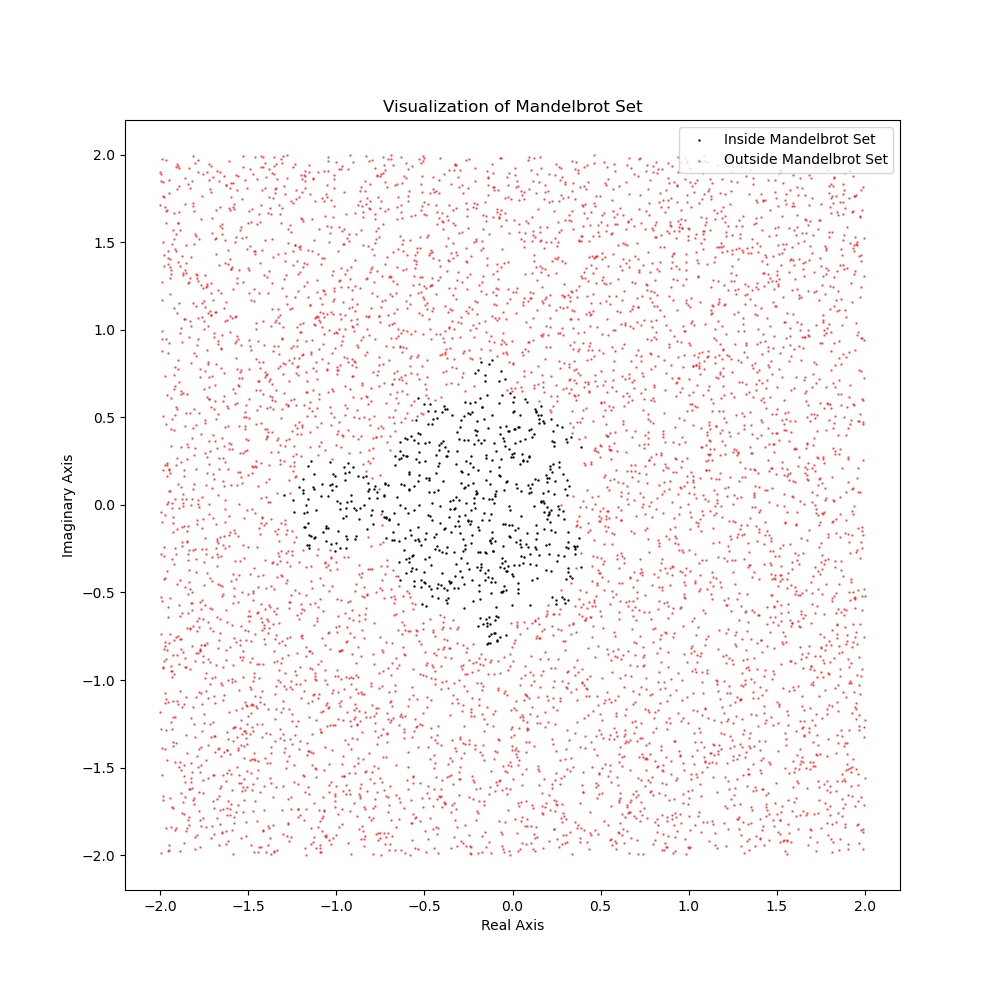
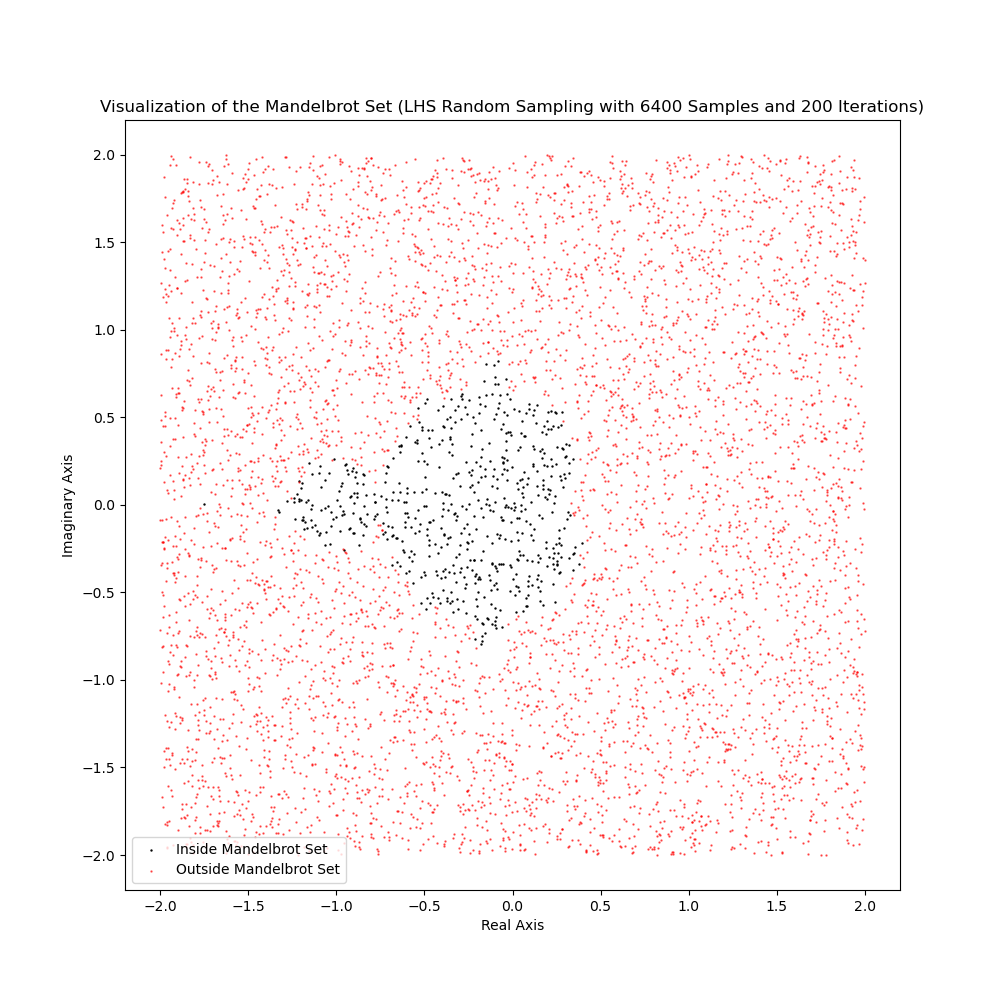
Add specified title for each plotting

Changed region(s): [[0.093, 0.093, 0.93, 0.899]]

diff --git a/src/main.py b/src/main.py
@@ -1,21 +1,37 @@
+import threading
+import time
 import multiprocessing as mp
 from joblib import Parallel, delayed
 import itertools
 import mandelbrot_analysis
+
+def show_wait_message():
+    animation = ["", ".", "..", "..."]
+    idx = 0
+    while not stop_event.is_set():
+        print(" " * 50, end="\r")
+        print(f"Hang in there, it's almost done{animation[idx % len(animation)]}", end="\r")
+        idx += 1
+        time.sleep(0.5)
+
+stop_event = threading.Event()
+wait_thread = threading.Thread(target=show_wait_message)
+wait_thread.start()
 
 # initialize the MandelbrotAnalysis platform
 mandelbrotAnalysisPlatform = mandelbrot_analysis.MandelbrotAnalysis(real_range=(-2, 2), imag_range=(-2, 2))
 
 # -----------------------------------------------------------color_mandelbrot-----------------------------------------------------------
 # pick the best combination of num_samples and max_iter
-num_samples_list              = [2500, 6400, 10000] # 50, 80, 100
-num_samples_list_perfect_root = [50, 80, 100] # perfect square root for orthogonal sampling, sample size is square of this number!!!
+num_samples_list              = [6400, 10000, 90000] # 50, 80, 100
+num_samples_list_perfect_root = [80, 100, 300] # perfect square root for orthogonal sampling, sample size is square of this number!!!
 max_iter_list = [100, 200]
 mset_list = list(itertools.product(num_samples_list, max_iter_list))
 
 def run_mset_colors_parallel(num_samples, max_iter):
     # 0 is for pure random sampling
-    # TODO: Implement pure random sampling
+    sample = mandelbrotAnalysisPlatform.pure_random_sampling(num_samples)
+    mandelbrotAnalysisPlatform.color_mandelbrot(sample, max_iter, 0)
 
     # 1 is for LHS sampling
     sample = mandelbrotAnalysisPlatform.latin_hypercube_sampling(num_samples)
@@ -44,6 +60,10 @@ results = Parallel(n_jobs=num_workers)(delayed(run_mset_colors_parallel)(num_sam
 
 mandelbrotAnalysisPlatform._load_library()
 run_mset_colors_ortho_seq(num_samples_list_perfect_root, max_iter_list)
-run_mset_colors_pure_seq(num_samples_list, max_iter_list)
+# run_mset_colors_pure_seq(num_samples_list, max_iter_list)
 
 # -----------------------------------------------------------inverstigate convergence-----------------------------------------------------------
+
+
+stop_event.set()
+wait_thread.join()

diff --git a/src/mandelbrot_analysis.py b/src/mandelbrot_analysis.py
@@ -19,6 +19,7 @@ class MandelbrotAnalysis:
         lib_path = os.path.join(os.path.dirname(__file__))
         lib_path = os.path.join(lib_path, "..", "ortho-pack", "lib")
         
+        print(f"Ready to do Ortho sampling...")
         if sys.platform.startswith("win"):
             print("Windows platform detected.")
             lib_file = "ortho_sampling_generate.dll"
@@ -69,9 +70,9 @@ class MandelbrotAnalysis:
         rng = np.random.default_rng()
         x_list = []
         y_list = []
-        for n in range(num_sample):
-            x_c = rng.uniform(low = -1, high = 1)
-            y_c = rng.uniform(low = -1, high = 1)
+        for n in range(num_samples):
+            x_c = rng.uniform(low = self.real_range[0], high = self.real_range[1])
+            y_c = rng.uniform(low = self.imag_range[0], high = self.imag_range[1])
             x_list.append(x_c)
             y_list.append(y_c)
             samples = np.column_stack((x_list, y_list))
@@ -180,7 +181,7 @@ class MandelbrotAnalysis:
         plt.scatter(samples[~mask, 0], samples[~mask, 1], color='red', s=0.5, alpha=0.6, label="Outside Mandelbrot Set")
         plt.xlabel('Real Axis')
         plt.ylabel('Imaginary Axis')
-        plt.title('Visualization of Mandelbrot Set')
+        plt.title(f'Visualization of the Mandelbrot Set ({sample_name} Random Sampling with {len(samples)} Samples and {max_iter} Iterations)')
         plt.legend()
         
         # store the image into a file, if no existing directory, create one        
